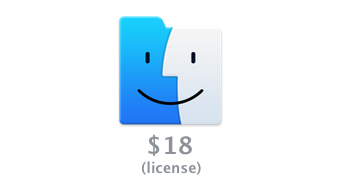
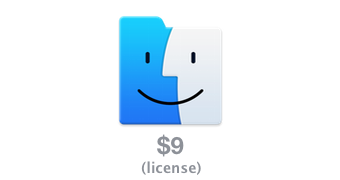
[darwin] regenerated from binaryage/totalfinder-web@f8699d7 https://github.com/binaryage/totalfinder-web/compare/8e6775435083...f8699d7bcccc

Changed region(s): [[0.4118, 0.75, 0.5882, 0.8611]]

diff --git a/index.html b/index.html
@@ -76,7 +76,7 @@
       </div>
     </div>
     <div id="main" class="cf">
-      <div class="el-warning">WARNING: May not be compatible with OSX 10.11 El Capitan. <a href="http://blog.binaryage.com/on-el-capitan/">Read more here.</a></div>
+      <div class="el-warning">WARNING: Not fully compatible with OSX 10.11 El Capitan. <a href="http://blog.binaryage.com/el-capitan-update/">Read more here.</a></div>
       <div id="totalfinder-header" class="product-header">
         <div class="container">
           <div class="row">
@@ -253,20 +253,20 @@
         <a href="https://sites.fastspring.com/binaryage/instant/totalfinder">
           <div class="buy-single explanation-box">
             <div class="title">Single License</div>
-            <div class="image"><img src="http://static.binaryage.com/ded9eca7_shared_img2_single-license-icon.png" width="170" height="90"/></div>
+            <div class="image"><img src="http://static.binaryage.com/bdae688f_shared_img2_single-license-icon.png" width="170" height="90"/></div>
             <div class="deal">Happy to pay the standard price?<br/>This is the way to go.</div>
             <div class="button">
-              <span>Buy single</span><span class="price-tag">$18</span>
+              <span>Buy single</span><span class="price-tag">$9</span>
             </div>
           </div>
         </a>
         <a href="https://sites.fastspring.com/binaryage/instant/totalfinder-friends">
           <div class="buy-pack explanation-box">
             <div class="title">License Pack</div>
-            <div class="image"><img src="http://static.binaryage.com/051f02b0_shared_img2_tripple-license-icon.png" width="170" height="90"/></div>
+            <div class="image"><img src="http://static.binaryage.com/ea1192ea_shared_img2_tripple-license-icon.png" width="170" height="90"/></div>
             <div class="deal">Keep one license for yourself, and give two coupons to your friends or family members.</div>
             <div class="button">
-              <span>Buy 3-pack</span><span class="price-tag">$36</span>
+              <span>Buy 3-pack</span><span class="price-tag">$18</span>
             </div>
           </div>
         </a>

diff --git a/licenses-for-friends.html b/licenses-for-friends.html
@@ -115,7 +115,7 @@
                 <div class="page-content">
                   <h2>How does it work?</h2>
                   <div style="width:600px">
-                    You buy <a href="https://sites.fastspring.com/binaryage/instant/totalfinder-friends">TotalFinder Friends</a> for $36 and I will send you a classic license plus two free coupons as URLs. You may then send the coupon links to your Mac friends, either as a gift or they give you $12 back.
+                    You buy <a href="https://sites.fastspring.com/binaryage/instant/totalfinder-friends">TotalFinder Friends</a> for $18 and I will send you a classic license plus two free coupons as URLs. You may then send the coupon links to your Mac friends, either as a gift or they give you $6 back.
                   </div>
                   <p><br class="clear"/></p>
                   <h2>Send message by email</h2>
@@ -125,7 +125,7 @@
                     <textarea class="hoverable-input" style="position: absolute; top:266px;left:167px;border:none; font-size: 10px; height:110px; width:516px;overflow:hidden">
                       Hey guys,
                       I've just found TotalFinder: http://totalfinder.binaryage.com
-                      If you join me we can each buy it for $12 instead of standard price $18:
+                      If you join me we can each buy it for $6 instead of standard price $9:
                       http://blog.binaryage.com/totalfinder-discount-coupon-with-friends
                       Let me know if you want me to grab one for you
                     </textarea>
